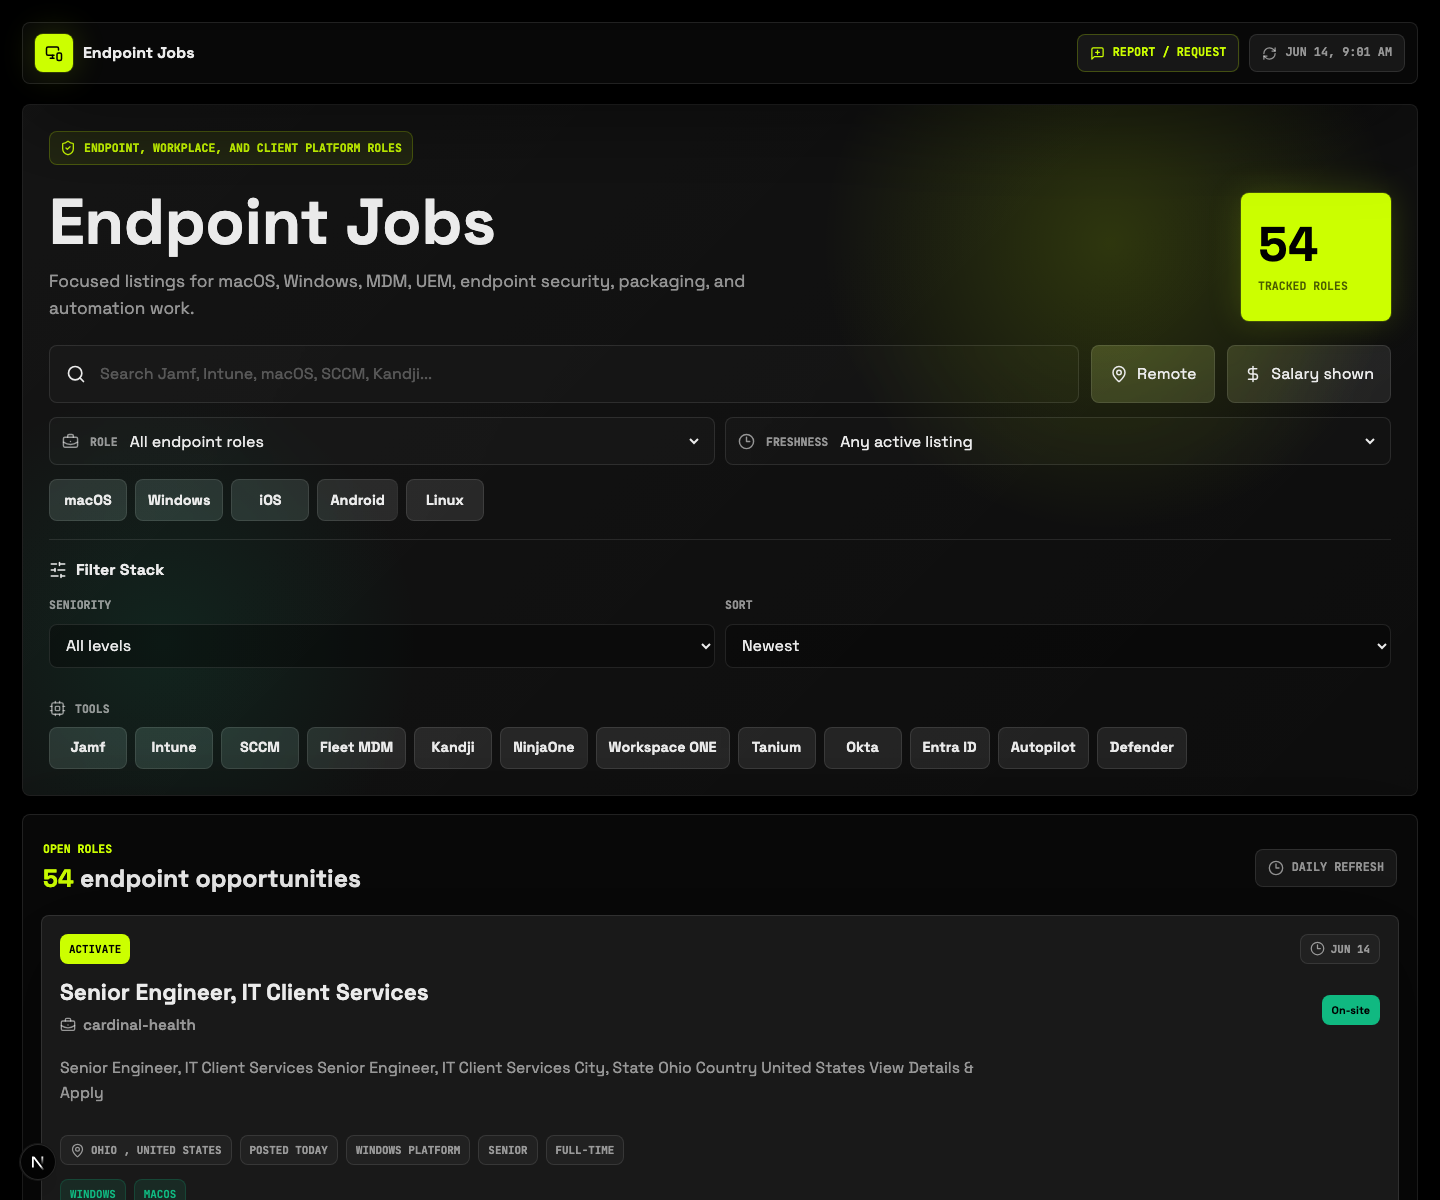
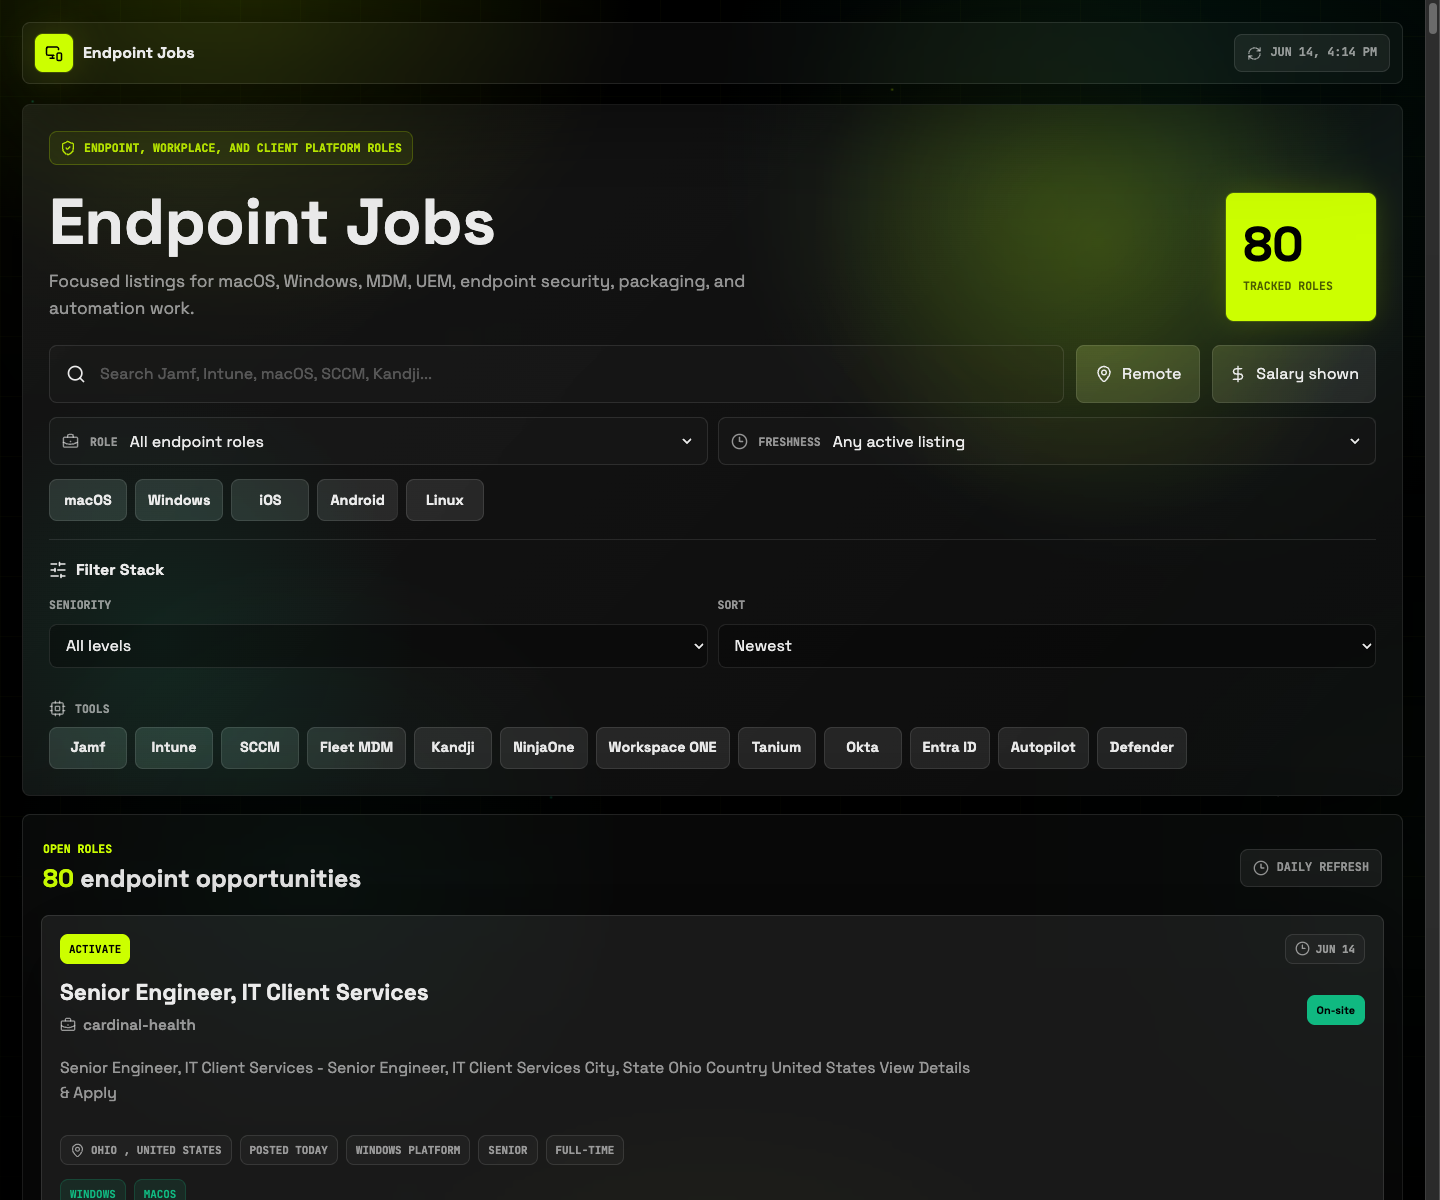
Update README screenshots

diff --git a/tasks/todo.md b/tasks/todo.md
@@ -441,3 +441,13 @@ Result: Initial run 27514957148 proved Adzuna and SerpAPI credentials are accept
 - [x] Commit and push the change.
 
 Result: Added Vercel Web Analytics using the official `@vercel/analytics/next` App Router component. Verified `npm run typecheck`, `npm run lint`, `npm run build`, and `git diff --check`; pushed commit `b6cce31`.
+
+## README Screenshot Refresh
+
+- [x] Inspect current README screenshot references.
+- [x] Capture fresh desktop and mobile screenshots from the current app.
+- [x] Replace README screenshot assets without changing public paths.
+- [x] Verify image files, README references, and diff hygiene.
+- [x] Commit and push refreshed screenshots.
+
+Result: Refreshed `docs/screenshots/readme-desktop.png` and `docs/screenshots/readme-mobile.png` from the current production page at 1440x1200 and 390x1200. Verified README paths, image dimensions, and `git diff --check`.